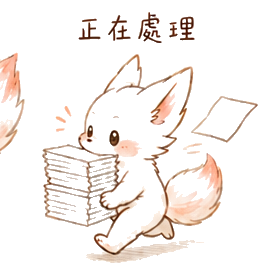
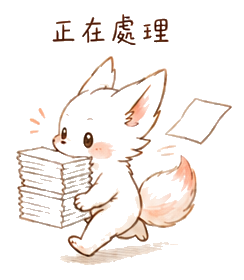
V1.9.0: 對話記帳範例日期動態化；分析分類改金額(%)並新增每日支出直條圖與上月比較；帳戶餘額卡可點入看子帳戶明細並可手動調整；切換頁面自動回頂；重切上班摸魚日常貼圖(修正裁切)

Changed region(s): [[0.0574, 0.029, 0.9754, 0.9565], [0.0, 0.1739, 0.1148, 0.5507]]

diff --git a/index.html b/index.html
@@ -7,8 +7,8 @@
   <meta name="apple-mobile-web-app-capable" content="yes" />
   <meta name="apple-mobile-web-app-status-bar-style" content="default" />
   <meta name="apple-mobile-web-app-title" content="BORI" />
-  <meta name="description" content="BORI V1.8.2，開房間跟情侶、家人或朋友一起生活記帳的雲端 App。" />
-  <title>BORI V1.8.2｜Cloud Life</title>
+  <meta name="description" content="BORI V1.9.0，開房間跟情侶、家人或朋友一起生活記帳的雲端 App。" />
+  <title>BORI V1.9.0｜Cloud Life</title>
   <link rel="preconnect" href="https://fonts.googleapis.com">
   <link rel="preconnect" href="https://fonts.gstatic.com" crossorigin>
   <link href="https://fonts.googleapis.com/css2?family=Noto+Sans+KR:wght@500;700&family=Noto+Sans+TC:wght@400;500;600;700;800&display=swap" rel="stylesheet">
@@ -36,7 +36,7 @@
 
   <section id="authScreen" class="gate-screen hidden">
     <div class="gate-card auth-card">
-      <div class="auth-brand"><span>🌾</span><div><strong>보리</strong><small>BORI V1.8.2</small></div></div>
+      <div class="auth-brand"><span>🌾</span><div><strong>보리</strong><small>BORI V1.9.0</small></div></div>
       <div class="auth-tabs"><button class="active" data-auth-tab="login">登入</button><button data-auth-tab="register">註冊</button></div>
       <form id="loginForm" class="auth-form">
         <label>Email<input id="loginEmail" type="email" required autocomplete="email" /></label>
@@ -63,7 +63,7 @@
   <div id="appShell" class="app-shell hidden">
     <header class="topbar">
       <div class="topbar-left">
-        <button class="brand-button" data-page="homePage"><span class="brand-mark">🌾</span><span><strong>보리</strong><small>BORI · V1.8.2</small></span></button>
+        <button class="brand-button" data-page="homePage"><span class="brand-mark">🌾</span><span><strong>보리</strong><small>BORI · V1.9.0</small></span></button>
         <button id="topbarRoom" class="topbar-room hidden" data-open="switchRoomDialog"><img id="topbarRoomIcon" src="" alt="" /><span id="topbarRoomName"></span></button>
       </div>
       <button class="avatar" data-page="profilePage" id="headerAvatar"><span id="headerAvatarEmoji">🐻</span><img id="headerAvatarImg" class="hidden" alt="" /></button>
@@ -169,13 +169,13 @@
         </div>
       </section>
 
-      <section id="insightsPage" class="page insights-page"><div id="insightsEmpty" class="empty-state large-empty"><div class="empty-illustration">📊</div><h2>先開一個房間</h2></div><div id="insightsContent" class="hidden"><div class="form-intro"><p class="eyebrow">INSIGHTS</p><h2>分析與預算</h2></div><div class="insight-tabs"><button class="active" data-insight-tab="analysis">收支圖表</button><button data-insight-tab="budget">預算進度</button></div><div id="insightAnalysis"><div class="month-selector"><button type="button" id="analysisPrevMonth" aria-label="上個月">‹</button><input type="month" id="analysisMonthInput" /><button type="button" id="analysisNextMonth" aria-label="下個月">›</button></div><p class="filter-label">依成員篩選</p><div id="analysisFilterRow" class="member-filter-row"></div><div class="analysis-metrics"><article><small>收入</small><strong id="analysisIncome">$0</strong></article><article><small>支出</small><strong id="analysisExpense">$0</strong></article><article><small>結餘</small><strong id="analysisNet">$0</strong></article><article><small>支出筆數</small><strong id="analysisCount">0</strong></article></div><article class="donut-card"><div class="donut" id="donutChart"><span id="donutTotal">$0</span></div><div id="categoryLegend" class="legend"></div></article><p class="dialog-subhead">成員收支</p><div id="memberAnalysisList" class="member-analysis-list"></div></div><div id="insightBudget" class="hidden"><div class="section-head"><h2>本月預算</h2><button class="text-button" data-open="budgetDialog">＋ 新增</button></div><label class="budget-filter-label">預算篩選<select id="budgetViewFilter"><option value="">全部成員</option></select></label><div id="budgetPreview" class="budget-list"></div></div></div></section>
+      <section id="insightsPage" class="page insights-page"><div id="insightsEmpty" class="empty-state large-empty"><div class="empty-illustration">📊</div><h2>先開一個房間</h2></div><div id="insightsContent" class="hidden"><div class="form-intro"><p class="eyebrow">INSIGHTS</p><h2>分析與預算</h2></div><div class="insight-tabs"><button class="active" data-insight-tab="analysis">收支圖表</button><button data-insight-tab="budget">預算進度</button></div><div id="insightAnalysis"><div class="month-selector"><button type="button" id="analysisPrevMonth" aria-label="上個月">‹</button><input type="month" id="analysisMonthInput" /><button type="button" id="analysisNextMonth" aria-label="下個月">›</button></div><p class="filter-label">依成員篩選</p><div id="analysisFilterRow" class="member-filter-row"></div><div class="analysis-metrics"><article><small>收入</small><strong id="analysisIncome">$0</strong></article><article><small>支出</small><strong id="analysisExpense">$0</strong></article><article><small>結餘</small><strong id="analysisNet">$0</strong></article><article><small>支出筆數</small><strong id="analysisCount">0</strong></article></div><article class="donut-card"><div class="donut" id="donutChart"><span id="donutTotal">$0</span></div><div id="categoryLegend" class="legend"></div></article><p class="dialog-subhead">每日支出</p><div id="dailyBarChart" class="daily-bars"></div><p id="analysisCompare" class="muted-hint compare-hint"></p><p class="dialog-subhead">成員收支</p><div id="memberAnalysisList" class="member-analysis-list"></div></div><div id="insightBudget" class="hidden"><div class="section-head"><h2>本月預算</h2><button class="text-button" data-open="budgetDialog">＋ 新增</button></div><label class="budget-filter-label">預算篩選<select id="budgetViewFilter"><option value="">全部成員</option></select></label><div id="budgetPreview" class="budget-list"></div></div></div></section>
 
       <section id="addPage" class="page">
         <div id="addEmpty" class="empty-state large-empty"><div class="empty-illustration">🌱</div><h2>先開一個房間</h2><p>房間開好後，才能新增共同收支。</p><button class="primary" data-open="bookDialog">🚪 開房間</button></div>
         <div id="addContent" class="hidden">
           <div class="form-intro record-form-intro"><div><p class="eyebrow" id="addPageEyebrow">NEW EXPENSE</p><h2 id="addPageTitle">這次花了多少？</h2></div><img id="addPageArt" class="record-form-art" src="assets/bear-expense.png" alt="" /></div>
-          <article class="ai-bookkeeping"><div><strong>✨ 對話記帳</strong><small>例如：「8/20 早餐 85 現金」</small></div><div class="ai-input-row"><input id="aiBookkeepingInput" placeholder="輸入或用說的記帳…" /><button id="voiceBookkeepingBtn" type="button" aria-label="語音輸入">🎙</button><button id="parseBookkeepingBtn" type="button">解析</button></div><p id="aiBookkeepingResult" class="muted-hint"></p></article>
+          <article class="ai-bookkeeping"><div><strong>✨ 對話記帳</strong><small id="aiBookkeepingHint">例如：「8/20 早餐 85 現金」</small></div><div class="ai-input-row"><input id="aiBookkeepingInput" placeholder="輸入或用說的記帳…" /><button id="voiceBookkeepingBtn" type="button" aria-label="語音輸入">🎙</button><button id="parseBookkeepingBtn" type="button">解析</button></div><p id="aiBookkeepingResult" class="muted-hint"></p></article>
           <div class="type-switch" id="typeSwitch">
             <button type="button" class="type-switch-option expense active" data-type="expense"><img class="type-switch-icon" src="assets/bear-expense.png" alt="" /><span>支出</span></button>
             <button type="button" class="type-switch-option income" data-type="income"><img class="type-switch-icon" src="assets/bear-income.png" alt="" /><span>收入</span></button>
@@ -244,7 +244,7 @@
     </nav>
   </div>
 
-  <dialog id="bookDialog"><form id="bookForm"><div class="dialog-head"><div><p class="eyebrow">NEW ROOM</p><h3>開一個房間</h3></div><button type="button" class="dialog-close" data-close="bookDialog">×</button></div><label>房間名稱<input id="newBookName" required maxlength="20" placeholder="例如：我們的小家庭" /></label><label>房間圖示<div class="type-options"><label><input type="radio" name="bookType" value="home" checked><span><img src="assets/room-icons/home.jpg" alt="居家" /></span></label><label><input type="radio" name="bookType" value="beach"><span><img src="assets/room-icons/beach.jpg" alt="旅行" /></span></label><label><input type="radio" name="bookType" value="cat"><span><img src="assets/room-icons/cat.jpg" alt="寵物" /></span></label><label><input type="radio" name="bookType" value="couple"><span><img src="assets/room-icons/couple.jpg" alt="約會" /></span></label><label><input type="radio" name="bookType" value="plant"><span><img src="assets/room-icons/plant.jpg" alt="園藝" /></span></label><label><input type="radio" name="bookType" value="piggybank"><span><img src="assets/room-icons/piggybank.jpg" alt="儲蓄" /></span></label><label><input type="radio" name="bookType" value="shopping"><span><img src="assets/room-icons/shopping.jpg" alt="購物" /></span></label><label><input type="radio" name="bookType" value="food"><span><img src="assets/room-icons/food.jpg" alt="美食" /></span></label><label><input type="radio" name="bookType" value="book"><span><img src="assets/room-icons/book.jpg" alt="學習" /></span></label><label><input type="radio" name="bookType" value="fitness"><span><img src="assets/room-icons/fitness.jpg" alt="運動" /></span></label><label><input type="radio" name="bookType" value="camera"><span><img src="assets/room-icons/camera.jpg" alt="攝影" /></span></label><label><input type="radio" name="bookType" value="balloons"><span><img src="assets/room-icons/balloons.jpg" alt="慶祝" /></span></label><label><input type="radio" name="bookType" value="movie"><span><img src="assets/room-icons/movie.jpg" alt="電影" /></span></label><label><input type="radio" name="bookType" value="game"><span><img src="assets/room-icons/game.jpg" alt="遊戲" /></span></label><label><input type="radio" name="bookType" value="checklist"><span><img src="assets/room-icons/checklist.jpg" alt="計畫" /></span></label><label><input type="radio" name="bookType" value="store"><span><img src="assets/room-icons/store.jpg" alt="商店" /></span></label><label><input type="radio" name="bookType" value="baby"><span><img src="assets/room-icons/baby.jpg" alt="育兒" /></span></label><label><input type="radio" name="bookType" value="car"><span><img src="assets/room-icons/car.jpg" alt="交通" /></span></label><label><input type="radio" name="bookType" value="letter"><span><img src="assets/room-icons/letter.jpg" alt="書信" /></span></label><label><input type="radio" name="bookType" value="gift"><span><img src="assets/room-icons/gift.jpg" alt="禮物" /></span></label></div></label><button class="primary" type="submit">🚪 開房間</button></form></dialog>
+  <dialog id="accountDetailDialog"><div class="dialog-head"><div><p class="eyebrow">ACCOUNT</p><h3 id="accountDetailTitle"></h3></div><button type="button" class="dialog-close" data-close="accountDetailDialog">×</button></div><div class="account-detail-total">合計 <strong id="accountDetailTotal">$0</strong></div><div id="accountDetailList" class="account-detail-list"></div><p class="muted-hint">點「調整」可手動修正該帳戶餘額（會新增一筆「餘額調整」紀錄）。</p></dialog><dialog id="bookDialog"><form id="bookForm"><div class="dialog-head"><div><p class="eyebrow">NEW ROOM</p><h3>開一個房間</h3></div><button type="button" class="dialog-close" data-close="bookDialog">×</button></div><label>房間名稱<input id="newBookName" required maxlength="20" placeholder="例如：我們的小家庭" /></label><label>房間圖示<div class="type-options"><label><input type="radio" name="bookType" value="home" checked><span><img src="assets/room-icons/home.jpg" alt="居家" /></span></label><label><input type="radio" name="bookType" value="beach"><span><img src="assets/room-icons/beach.jpg" alt="旅行" /></span></label><label><input type="radio" name="bookType" value="cat"><span><img src="assets/room-icons/cat.jpg" alt="寵物" /></span></label><label><input type="radio" name="bookType" value="couple"><span><img src="assets/room-icons/couple.jpg" alt="約會" /></span></label><label><input type="radio" name="bookType" value="plant"><span><img src="assets/room-icons/plant.jpg" alt="園藝" /></span></label><label><input type="radio" name="bookType" value="piggybank"><span><img src="assets/room-icons/piggybank.jpg" alt="儲蓄" /></span></label><label><input type="radio" name="bookType" value="shopping"><span><img src="assets/room-icons/shopping.jpg" alt="購物" /></span></label><label><input type="radio" name="bookType" value="food"><span><img src="assets/room-icons/food.jpg" alt="美食" /></span></label><label><input type="radio" name="bookType" value="book"><span><img src="assets/room-icons/book.jpg" alt="學習" /></span></label><label><input type="radio" name="bookType" value="fitness"><span><img src="assets/room-icons/fitness.jpg" alt="運動" /></span></label><label><input type="radio" name="bookType" value="camera"><span><img src="assets/room-icons/camera.jpg" alt="攝影" /></span></label><label><input type="radio" name="bookType" value="balloons"><span><img src="assets/room-icons/balloons.jpg" alt="慶祝" /></span></label><label><input type="radio" name="bookType" value="movie"><span><img src="assets/room-icons/movie.jpg" alt="電影" /></span></label><label><input type="radio" name="bookType" value="game"><span><img src="assets/room-icons/game.jpg" alt="遊戲" /></span></label><label><input type="radio" name="bookType" value="checklist"><span><img src="assets/room-icons/checklist.jpg" alt="計畫" /></span></label><label><input type="radio" name="bookType" value="store"><span><img src="assets/room-icons/store.jpg" alt="商店" /></span></label><label><input type="radio" name="bookType" value="baby"><span><img src="assets/room-icons/baby.jpg" alt="育兒" /></span></label><label><input type="radio" name="bookType" value="car"><span><img src="assets/room-icons/car.jpg" alt="交通" /></span></label><label><input type="radio" name="bookType" value="letter"><span><img src="assets/room-icons/letter.jpg" alt="書信" /></span></label><label><input type="radio" name="bookType" value="gift"><span><img src="assets/room-icons/gift.jpg" alt="禮物" /></span></label></div></label><button class="primary" type="submit">🚪 開房間</button></form></dialog>
 
   <dialog id="joinDialog"><form id="joinForm"><div class="dialog-head"><div><p class="eyebrow">JOIN ROOM</p><h3>加入房間</h3></div><button type="button" class="dialog-close" data-close="joinDialog">×</button></div><label>房間代碼<input id="inviteCodeInput" required maxlength="20" placeholder="例如：BORI-ABC123" /></label><button class="primary" type="submit">🔑 加入房間</button></form></dialog>
 
@@ -271,7 +271,7 @@
     <div class="about-content">
       <div class="about-mascot">🐻🌾</div>
       <h4>보리 BORI</h4>
-      <p class="about-version">Cloud Life · V1.8.2</p>
+      <p class="about-version">Cloud Life · V1.9.0</p>
       <p class="about-desc">跟重要的人一起記帳、聊天、累積生活裡的小幸福。收支同步、預算管理、即時聊天，一起把日子過好。</p>
     </div>
   </dialog>

diff --git a/app.js b/app.js
@@ -249,7 +249,7 @@ function showOnly(id) { ["configErrorScreen", "authScreen", "appShell"].forEach(
 const roomRequiredDialogs = ["budgetDialog", "manageCategoriesDialog", "roomSettingsDialog", "memberListDialog", "switchRoomDialog", "dataExportDialog"];
 function openDialog(id) { if (!activeBookId && roomRequiredDialogs.includes(id)) return toast("請先開一個房間或加入房間"); $("#" + id)?.showModal(); }
 function closeDialog(id) { $("#" + id)?.close(); }
-function goTo(pageId) { $$(".page").forEach((p) => p.classList.toggle("active", p.id === pageId)); $$(".nav-item,.nav-add").forEach((b) => b.classList.toggle("active", b.dataset.page === pageId)); if (pageId === "chatPage") { showInteractionHub(); resetChatComposerBaseline(); } if (pageId === "insightsPage") renderInsights(); if (pageId === "addPage" && activeBookId) { $("#transactionForm")?.reset(); resetSplitState(); setAddType("expense"); setDateValue("dateInput", "dateInputDisplay", localDateStr()); editingTransactionId = null; $("#deleteTransactionBtn").classList.add("hidden"); } }
+function goTo(pageId) { $$(".page").forEach((p) => p.classList.toggle("active", p.id === pageId)); $$(".nav-item,.nav-add").forEach((b) => b.classList.toggle("active", b.dataset.page === pageId)); if (pageId === "chatPage") { showInteractionHub(); resetChatComposerBaseline(); } if (pageId === "insightsPage") renderInsights(); if (pageId === "addPage" && activeBookId) { $("#transactionForm")?.reset(); resetSplitState(); setAddType("expense"); setDateValue("dateInput", "dateInputDisplay", localDateStr()); editingTransactionId = null; $("#deleteTransactionBtn").classList.add("hidden"); } const _pg = document.getElementById(pageId); if (_pg) _pg.scrollTop = 0; window.scrollTo(0, 0); }
 function unreadCount() {
   const myId = session?.user?.id;
   if (!myId || !myLastReadAt) return 0;
@@ -812,13 +812,59 @@ function computeAccountBalances() {
   });
   return balances;
 }
+function computeSubAccountBalances(categoryKey) {
+  const myId = session?.user?.id;
+  const map = {};
+  mySubAccounts(categoryKey).forEach((sa) => { map[sa.name] = 0; });
+  transactions.forEach((x) => {
+    if (x.payment_category !== categoryKey) return;
+    if (memberFilterId && x.user_id !== memberFilterId) return;
+    if (x.user_id !== myId && memberPrivacy[x.user_id]) return;
+    const name = x.payment_method || (baseCategories.find((c) => c.key === categoryKey)?.label) || categoryKey;
+    if (!(name in map)) map[name] = 0;
+    map[name] += x.transaction_type === "income" ? Number(x.amount) : -Number(x.amount);
+  });
+  return map;
+}
+let accountDetailCat = null;
+function openAccountDetail(cat) {
+  accountDetailCat = cat;
+  const meta = baseCategories.find((c) => c.key === cat);
+  const balances = computeSubAccountBalances(cat);
+  const total = Object.values(balances).reduce((s2, v) => s2 + v, 0);
+  const canAdjust = !memberFilterId || memberFilterId === session?.user?.id;
+  const t = $("#accountDetailTitle"); if (t) t.innerHTML = `${meta?.icon || ""} ${escapeHTML(meta?.label || cat)}`;
+  const tot = $("#accountDetailTotal"); if (tot) tot.textContent = money(total);
+  const names = Object.keys(balances);
+  const list = $("#accountDetailList");
+  if (list) list.innerHTML = names.length ? names.map((n) => `<div class="account-detail-row"><span>${escapeHTML(n)}</span><strong class="${balances[n] < 0 ? "negative" : ""}">${money(balances[n])}</strong>${canAdjust ? `<button type="button" class="text-button" data-adjust-sub="${escapeHTML(n)}">調整</button>` : ""}</div>`).join("") : `<p class="muted">此分類還沒有子帳戶。</p>`;
+  $("#accountDetailDialog")?.showModal();
+}
+async function adjustAccountBalance(cat, sub) {
+  const cur = computeSubAccountBalances(cat)[sub] || 0;
+  const input = prompt(`「${sub}」目前餘額為 ${money(cur)}。\n請輸入正確的餘額：`, String(Math.round(cur)));
+  if (input === null) return;
+  const target = Math.round(Number(input));
+  if (!Number.isFinite(target)) return toast("請輸入數字");
+  const delta = target - cur;
+  if (delta === 0) return toast("餘額不變");
+  const row = { book_id: activeBookId, user_id: session.user.id, transaction_type: delta > 0 ? "income" : "expense", category: "餘額調整", title: "餘額調整", amount: Math.abs(delta), transaction_date: localDateStr(), payment_category: cat, payment_method: sub, split_mode: "private", note: "手動調整餘額" };
+  const { error } = await supabaseClient.from("transactions").insert(row);
+  if (error) return toast(error.message);
+  await loadActiveBookData();
+  renderAll();
+  openAccountDetail(cat);
+  toast("餘額已調整 ✅");
+}
+$("#accountBalances")?.addEventListener("click", (e) => { const card = e.target.closest("[data-account-cat]"); if (card) openAccountDetail(card.dataset.accountCat); });
+$("#accountDetailList")?.addEventListener("click", (e) => { const b = e.target.closest("[data-adjust-sub]"); if (b && accountDetailCat) adjustAccountBalance(accountDetailCat, b.dataset.adjustSub); });
 function renderAccountBalances() {
   const el = $("#accountBalances");
   if (!el) return;
   const balances = computeAccountBalances();
   const selectedMember = memberFilterId ? roomMembers.find((m) => m.id === memberFilterId) : null;
   const ownerLabel = selectedMember ? selectedMember.name : "全部成員";
-  el.innerHTML = baseCategories.map((c) => `<div class="account-balance-card"><span class="account-icon">${c.icon}</span><small>${escapeHTML(ownerLabel)} · ${c.label}</small><strong class="${balances[c.key] < 0 ? "negative" : ""}">${money(balances[c.key] || 0)}</strong></div>`).join("");
+  el.innerHTML = baseCategories.map((c) => `<div class="account-balance-card clickable" data-account-cat="${c.key}"><span class="account-icon">${c.icon}</span><small>${escapeHTML(ownerLabel)} · ${c.label}</small><strong class="${balances[c.key] < 0 ? "negative" : ""}">${money(balances[c.key] || 0)}</strong><span class="account-chevron">›</span></div>`).join("");
 }
 let selectedPaymentCategory = "cash";
 let selectedSubAccount = "現金";
@@ -851,7 +897,7 @@ function recordHTML(x) {
   const attrs = isMine ? `type="button" class="record" data-edit-record="${x.id}"` : `class="record"`;
   return `<${tag} ${attrs}><div class="record-icon" style="background:${meta.color}20">${iconHTML}</div><div><strong>${escapeHTML(x.title)}</strong><small><b class="record-owner">${escapeHTML(ownerName)}</b> · ${escapeHTML(x.category)} · ${new Date(`${x.transaction_date}T00:00:00`).toLocaleDateString("zh-TW")} · ${escapeHTML(payLabel)}</small>${noteHTML}</div><b class="${income ? "income-text" : ""}">${income ? "+" : "-"}${money(x.amount)}</b></${tag}>`;
 }
-function renderAdd() { const has = !!activeBookId; $("#addEmpty").classList.toggle("hidden", has); $("#addContent").classList.toggle("hidden", !has); if (has) { renderPaymentPicker(); if (!editingTransactionId) setAddType(addType); } }
+function renderAdd() { const has = !!activeBookId; $("#addEmpty").classList.toggle("hidden", has); $("#addContent").classList.toggle("hidden", !has); if (has) { renderPaymentPicker(); if (!editingTransactionId) setAddType(addType); } const _t = new Date(); const _h = $("#aiBookkeepingHint"); if (_h) _h.textContent = `例如：「${_t.getMonth() + 1}/${_t.getDate()} 早餐 85 現金」`; }
 function stickerById(id) { return allStickers.find((s) => s.id === id); }
 function formatDateDivider(dateStr) {
   const d = new Date(`${dateStr}T00:00:00`);
@@ -1006,7 +1052,20 @@ function renderAnalysis() {
   const grouped = {}; expenses.forEach((x) => grouped[x.category] = (grouped[x.category] || 0) + Number(x.amount)); const entries = Object.entries(grouped).sort((a, b) => b[1] - a[1]);
   let cursor = 0; const segments = entries.map(([c, v]) => { const start = cursor; cursor += exp ? (v / exp) * 360 : 0; return `${(categoryMeta[c] || categoryMeta.其他).color} ${start}deg ${cursor}deg`; });
   $("#donutChart").style.background = segments.length ? `conic-gradient(${segments.join(",")})` : "#eee7dc";
-  $("#categoryLegend").innerHTML = entries.length ? entries.map(([c, v]) => `<div class="legend-row"><i style="background:${(categoryMeta[c] || categoryMeta.其他).color}"></i><span>${escapeHTML(c)}</span><strong>${Math.round((v / exp) * 100)}%</strong></div>`).join("") : `<p class="muted">尚無支出分類</p>`;
+  $("#categoryLegend").innerHTML = entries.length ? entries.map(([c, v]) => `<div class="legend-row"><i style="background:${(categoryMeta[c] || categoryMeta.其他).color}"></i><span>${escapeHTML(c)}</span><strong>${money(v)} (${Math.round((v / exp) * 100)}%)</strong></div>`).join("") : `<p class="muted">尚無支出分類</p>`;
+  const [_yy, _mm] = viewMonth.split("-").map(Number);
+  const _dim = new Date(_yy, _mm, 0).getDate();
+  const _dayTotals = Array(_dim).fill(0);
+  expenses.forEach((x) => { const dd = Number(String(x.transaction_date).slice(8, 10)); if (dd >= 1 && dd <= _dim) _dayTotals[dd - 1] += Number(x.amount); });
+  const _maxDay = Math.max(1, ..._dayTotals);
+  const _dbc = $("#dailyBarChart");
+  if (_dbc) _dbc.innerHTML = _dayTotals.map((v, i) => `<div class="day-bar" title="${viewMonth}-${pad2(i + 1)}　${money(v)}"><span style="height:${v ? Math.max(3, Math.round((v / _maxDay) * 100)) : 0}%"></span><small>${(i + 1) % 5 === 0 || i === 0 ? i + 1 : ""}</small></div>`).join("");
+  const _pd = new Date(_yy, _mm - 2, 1); const _pm = `${_pd.getFullYear()}-${pad2(_pd.getMonth() + 1)}`;
+  let _prevExp = transactions.filter((x) => x.transaction_type === "expense" && String(x.transaction_date).slice(0, 7) === _pm);
+  if (memberFilterId) _prevExp = _prevExp.filter((x) => x.user_id === memberFilterId);
+  const _prevSum = _prevExp.reduce((s2, x) => s2 + Number(x.amount), 0);
+  const _cmp = $("#analysisCompare");
+  if (_cmp) { if (_prevSum > 0) { const _d = exp - _prevSum; const _pp = Math.round((_d / _prevSum) * 100); _cmp.textContent = `與上月（${money(_prevSum)}）相比，${_d >= 0 ? "多花" : "少花"}了 ${money(Math.abs(_d))}（${_d >= 0 ? "+" : ""}${_pp}%）`; } else { _cmp.textContent = "上月沒有支出可比較。"; } }
   const memberRows = roomMembers.map((member) => {
     const rows = analysisTransactions.filter((x) => x.user_id === member.id);
     const memberIncome = rows.filter((x) => x.transaction_type === "income").reduce((s, x) => s + Number(x.amount), 0);

diff --git a/sw.js b/sw.js
@@ -1,4 +1,4 @@
-const CACHE_NAME = "bori-v1.21.0-production";
+const CACHE_NAME = "bori-v1.22.0-production";
 const ASSETS = ["./","./index.html","./styles.css","./config.js","./app.js","./manifest.webmanifest","./assets/favicon.png","./assets/icon-192.png","./assets/icon-512.png","./assets/splash-v2.png","./assets/hero-bori.png","./assets/icon-door.png","./assets/icon-key.png","./assets/room-icons/home.jpg","./assets/room-icons/beach.jpg","./assets/room-icons/cat.jpg","./assets/room-icons/couple.jpg","./assets/room-icons/plant.jpg","./assets/room-icons/piggybank.jpg","./assets/room-icons/shopping.jpg","./assets/room-icons/food.jpg","./assets/room-icons/book.jpg","./assets/room-icons/fitness.jpg","./assets/room-icons/camera.jpg","./assets/room-icons/balloons.jpg","./assets/room-icons/movie.jpg","./assets/room-icons/game.jpg","./assets/room-icons/checklist.jpg","./assets/room-icons/store.jpg","./assets/room-icons/baby.jpg","./assets/room-icons/car.jpg","./assets/room-icons/letter.jpg","./assets/room-icons/gift.jpg","./assets/stickers/hi.jpg","./assets/stickers/there.jpg","./assets/stickers/thankyou.jpg","./assets/stickers/awesome.jpg","./assets/stickers/please.jpg","./assets/stickers/congrats.jpg","./assets/stickers/whimper.jpg","./assets/stickers/hug.jpg","./assets/stickers/gotit.jpg","./assets/stickers/thinking.jpg","./assets/stickers/ok2.jpg","./assets/stickers/goodnight.jpg","./assets/stickers/hardwork.jpg","./assets/stickers/yay.jpg","./assets/stickers/touched.jpg","./assets/stickers/leaving.jpg","./assets/stickers2/hi2.jpg","./assets/stickers2/logging.jpg","./assets/stickers2/calculating.jpg","./assets/stickers2/done2.jpg","./assets/stickers2/saving_best.jpg","./assets/stickers2/spree.jpg","./assets/stickers2/overspent.jpg","./assets/stickers2/ohno.jpg","./assets/stickers2/shouldbuy.jpg","./assets/stickers2/planfirst.jpg","./assets/stickers2/tinyjoy.jpg","./assets/stickers2/summary.jpg","./assets/stickers2/goalmet.jpg","./assets/stickers2/keepsaving.jpg","./assets/stickers2/saveit.jpg","./assets/stickers2/todayspend.jpg","./assets/stickers2/waitbuy.jpg","./assets/stickers2/walletcry.jpg","./assets/stickers2/relax.jpg","./assets/stickers2/goodnight2.jpg","./assets/category-icons/ramen.png","./assets/category-icons/bubbletea.png","./assets/category-icons/coffee.png","./assets/category-icons/cake.png","./assets/category-icons/burger.png","./assets/category-icons/groceries.png","./assets/category-icons/shopping_bag.png","./assets/category-icons/cart.png","./assets/category-icons/car.png","./assets/category-icons/scooter.png","./assets/category-icons/train.png","./assets/category-icons/plane.png","./assets/category-icons/gas.png","./assets/category-icons/bus.png","./assets/category-icons/taxi.png","./assets/category-icons/parking.png","./assets/category-icons/movie.png","./assets/category-icons/game.png","./assets/category-icons/headphones.png","./assets/category-icons/gift.png","./assets/category-icons/house.png","./assets/category-icons/building.png","./assets/category-icons/lightbulb.png","./assets/category-icons/faucet.png","./assets/category-icons/toiletries.png","./assets/category-icons/bed_moon.png","./assets/category-icons/firstaid.png","./assets/category-icons/medicine.png","./assets/category-icons/fitness.png","./assets/category-icons/produce.png","./assets/category-icons/pets.png","./assets/category-icons/petfood.png","./assets/category-icons/toiletries2.png","./assets/category-icons/clothes.png","./assets/category-icons/makeup.png","./assets/category-icons/haircut.png","./assets/category-icons/luggage.png","./assets/category-icons/bedroom.png","./assets/category-icons/laptop.png","./assets/category-icons/phone.png","./assets/category-icons/book.png","./assets/category-icons/graduation.png","./assets/category-icons/tv.png","./assets/category-icons/calendar.png","./assets/category-icons/wallet.png","./assets/category-icons/creditcard.png","./assets/category-icons/insurance.png","./assets/category-icons/receipt.png","./assets/category-icons/flowers.png","./assets/category-icons/chat.png","./assets/stickers3/angry.jpg","./assets/stickers3/charging_you.jpg","./assets/stickers3/clingy.jpg","./assets/stickers3/date_time.jpg","./assets/stickers3/dont_be_mad.jpg","./assets/stickers3/eat_on_time.jpg","./assets/stickers3/eat_together.jpg","./assets/stickers3/forgive_me.jpg","./assets/stickers3/glad_you_here.jpg","./assets/stickers3/good_morning.jpg","./assets/stickers3/good_night.jpg","./assets/stickers3/hard_work.jpg","./assets/stickers3/hug_me.jpg","./assets/stickers3/ignoring_you.jpg","./assets/stickers3/ill_protect.jpg","./assets/stickers3/im_here.jpg","./assets/stickers3/jealous.jpg","./assets/stickers3/kiss_here.jpg","./assets/stickers3/love_you_lots.jpg","./assets/stickers3/love_you_most.jpg","./assets/stickers3/made_up.jpg","./assets/stickers3/miss_you.jpg","./assets/stickers3/stay_warm.jpg","./assets/stickers3/surprise_for_you.jpg","./assets/stickers3/sweet_today.jpg","./assets/stickers3/take_meds.jpg","./assets/stickers3/together_forever.jpg","./assets/stickers3/wake_up.jpg","./assets/stickers3/why_late.jpg","./assets/stickers3/you_rock.jpg","./assets/income-icons/achievement.png","./assets/income-icons/bank_income.png","./assets/income-icons/bonus_pet.png","./assets/income-icons/cashback.png","./assets/income-icons/coffee_earn.png","./assets/income-icons/content_income.png","./assets/income-icons/freelance.png","./assets/income-icons/gift_income.png","./assets/income-icons/growth_chart.png","./assets/income-icons/house_fund.png","./assets/income-icons/investment_grow.png","./assets/income-icons/lottery.png","./assets/income-icons/love_donate.png","./assets/income-icons/payday.png","./assets/income-icons/piggybank.png","./assets/income-icons/red_envelope.png","./assets/income-icons/red_packet_income.png","./assets/income-icons/resell.png","./assets/income-icons/salary.png","./assets/income-icons/stock_chart.png","./assets/income-icons/tips.png","./assets/income-icons/transfer.png","./assets/income-icons/travel_fund.png","./assets/income-icons/wallet_gift.png","./assets/stickers5/bath_time2.png","./assets/stickers5/bill_due2.png","./assets/stickers5/broke_again2.png","./assets/stickers5/carry_you2.png","./assets/stickers5/dont_cry2.png","./assets/stickers5/drink_water2.png","./assets/stickers5/eat_together3.png","./assets/stickers5/exhausted2.png","./assets/stickers5/gift_for_you2.png","./assets/stickers5/glad_you_here_shiba2.png","./assets/stickers5/goal_reached2.png","./assets/stickers5/good_morning3.png","./assets/stickers5/good_night3.png","./assets/stickers5/happy_shiba2.png","./assets/stickers5/here_we_come2.png","./assets/stickers5/hug_shiba2.png","./assets/stickers5/income_in2.png","./assets/stickers5/kiss_one2.png","./assets/stickers5/living_cost2.png","./assets/stickers5/love_you3.png","./assets/stickers5/love_you_most3.png","./assets/stickers5/mealtime2.png","./assets/stickers5/monthly_recap2.png","./assets/stickers5/raining2.png","./assets/stickers5/record_it2.png","./assets/stickers5/resist_buying2.png","./assets/stickers5/saved_success2.png","./assets/stickers5/saving_hard2.png","./assets/stickers5/set_budget2.png","./assets/stickers5/sleep_together2.png","./assets/stickers5/so_cold2.png","./assets/stickers5/sorry_shiba2.png","./assets/stickers5/todays_expense2.png","./assets/stickers5/wait_for_me2.png","./assets/stickers5/walk_together2.png","./assets/stickers5/work_hard2.png","./assets/mood-icons/calm.png","./assets/mood-icons/happy_bonded.png","./assets/mood-icons/joyful.png","./assets/mood-icons/sad.png","./assets/mood-icons/tired.png"];
 ASSETS.push("./assets/interaction/together-hero-v2.png");
 ASSETS.push("./assets/stickers3/angry.png","./assets/stickers3/charging_you.png","./assets/stickers3/clingy.png","./assets/stickers3/date_time.png","./assets/stickers3/dont_be_mad.png","./assets/stickers3/eat_on_time.png","./assets/stickers3/eat_together.png","./assets/stickers3/forgive_me.png","./assets/stickers3/glad_you_here.png","./assets/stickers3/good_morning.png","./assets/stickers3/good_night.png","./assets/stickers3/hard_work.png","./assets/stickers3/hug_me.png","./assets/stickers3/ignoring_you.png","./assets/stickers3/ill_protect.png","./assets/stickers3/im_here.png","./assets/stickers3/jealous.png","./assets/stickers3/kiss_here.png","./assets/stickers3/love_you_lots.png","./assets/stickers3/love_you_most.png","./assets/stickers3/made_up.png","./assets/stickers3/miss_you.png","./assets/stickers3/stay_warm.png","./assets/stickers3/surprise_for_you.png","./assets/stickers3/sweet_today.png","./assets/stickers3/take_meds.png","./assets/stickers3/together_forever.png","./assets/stickers3/wake_up.png","./assets/stickers3/why_late.png","./assets/stickers3/you_rock.png");

diff --git a/styles.css b/styles.css
@@ -726,3 +726,18 @@ body.chat-keyboard-open .bottom-nav{display:none}
 .month-selector{display:flex;align-items:center;justify-content:center;gap:10px;margin:0 0 14px}
 .month-selector button{width:34px;height:34px;border:0;border-radius:50%;background:var(--green-soft);color:var(--green-dark);font-size:18px;display:grid;place-items:center;padding:0;flex-shrink:0}
 .month-selector input[type=month]{border:1px solid var(--line);border-radius:99px;padding:8px 14px;background:var(--card);font-size:15px;color:var(--brown);font-family:inherit;text-align:center}
+
+/* V1.9.0 帳戶明細 + 每日支出圖 */
+.account-balance-card.clickable{cursor:pointer;position:relative}
+.account-chevron{position:absolute;top:10px;right:12px;color:var(--muted);font-size:16px}
+.account-detail-total{text-align:center;margin:2px 0 12px;color:var(--muted)}
+.account-detail-total strong{color:var(--brown);font-size:22px;margin-left:6px}
+.account-detail-list{display:flex;flex-direction:column}
+.account-detail-row{display:flex;align-items:center;gap:10px;padding:12px 4px;border-bottom:1px solid var(--line)}
+.account-detail-row span{flex:1}
+.account-detail-row strong{min-width:84px;text-align:right}
+.daily-bars{display:flex;align-items:flex-end;gap:2px;height:120px;padding:8px 4px 0;overflow-x:auto}
+.day-bar{flex:1 0 8px;display:flex;flex-direction:column;align-items:center;justify-content:flex-end;height:100%}
+.day-bar span{width:70%;background:var(--green);border-radius:4px 4px 0 0;display:block}
+.day-bar small{font-size:9px;color:var(--muted);height:12px;line-height:12px}
+.compare-hint{text-align:center;margin-top:8px}
